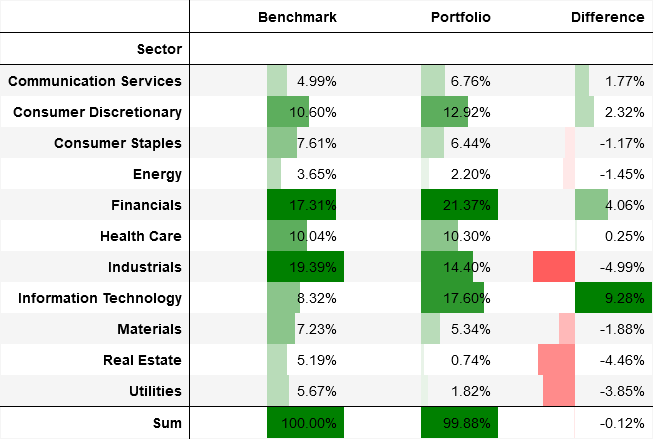
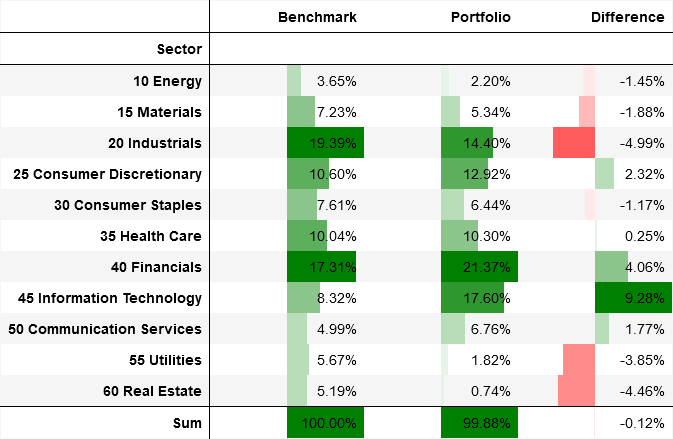
update

diff --git a/bm.py b/bm.py
@@ -257,8 +257,24 @@ def plot_combined_dataframe(benchmark: pd.DataFrame, portfolio: pd.DataFrame, na
                                suffixes=('_benchmark', '_portfolio')).fillna(0)
     combined_sector.columns = ['Benchmark', 'Portfolio']
     combined_sector['Difference'] = combined_sector['Portfolio'] - combined_sector['Benchmark']
-    combined_sector.loc['Sum'] = combined_sector.sum()
+
     combined_sector.index.name = "Sector"
+    sector_mapping = {
+        'Information Technology': '45 Information Technology',
+        'Health Care': '35 Health Care',
+        'Financials': '40 Financials',
+        'Consumer Discretionary': '25 Consumer Discretionary',
+        'Energy': '10 Energy',
+        'Industrials': '20 Industrials',
+        'Materials': '15 Materials',
+        'Consumer Staples': '30 Consumer Staples',
+        'Utilities': '55 Utilities',
+        'Real Estate': '60 Real Estate',
+        'Communication Services': '50 Communication Services'
+    }
+    combined_sector.index = combined_sector.index.map(sector_mapping)
+    combined_sector = combined_sector.sort_index()
+    combined_sector.loc['Sum'] = combined_sector.sum()
 
     sector = style_and_export_combined(combined_sector, name, "Sector")
 
@@ -362,7 +378,7 @@ def plot_hedge(df: pd.DataFrame, fund: str):
 def generate_allocation_report():
     sxxp, spx, benchmark = get_benchmark_positions()
 
-    name = "D&R Aktien Nachhaltigkeit"
+    name = "D&R Aktien"
     aktien = get_account_positions(id=mandate.get(name))
 
     aktien_sector, aktien_region = plot_combined_dataframe(benchmark, aktien, name)
